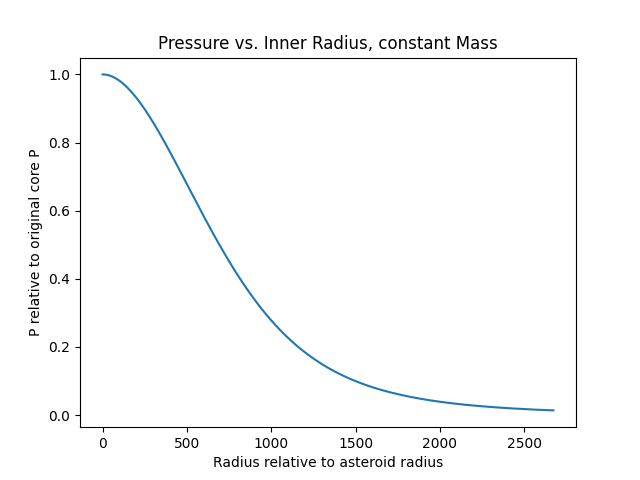
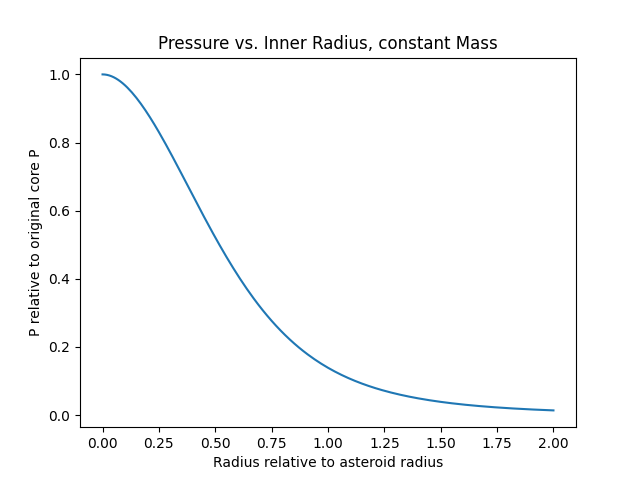
Finish initial two plots

diff --git a/use.py b/use.py
@@ -25,20 +25,26 @@ N_points = 200
 
 R0 = (M * 3. / (4. * pi))**(1./3.)
 
-R_values = [(2. / N_points) * i * R0 for i in range(N_points + 1)]
+relative_values = [(2. / N_points) * i for i in range(N_points + 1)]
 
+R_values = [rel * R0 for rel in relative_values]
 P_values = [new_inflation.P_RM(R, M) / new_inflation.P_RM(0., M) for R in R_values]
 
-plt.plot(R_values, P_values)
+plt.plot(relative_values, P_values)
 plt.title('Pressure vs. Inner Radius, constant Mass')
 plt.ylabel('P relative to original core P')
 plt.xlabel('Radius relative to asteroid radius')
 plt.savefig('P_vs_r.png')
+plt.clf()
 
-V_values = [(4./3.)*pi*R**3 for R in R_values]
+V0 = (4./3.)*pi*R0**3
 
-plt.plot(V_values, P_values)
+V_values = [rel * V0 for rel in relative_values]
+PV_values = [new_inflation.P_VM(V, M) / new_inflation.P_VM(0., M) for V in V_values]
+
+plt.plot(relative_values, PV_values)
 plt.title('Volume vs. Inner Radius, constant Mass')
 plt.ylabel('P relative to original core P')
 plt.xlabel('Volume relative to asteroid rock volume')
 plt.savefig('P_vs_V.png')
+plt.clf()

diff --git a/gb/constants.py b/gb/constants.py
@@ -1,5 +1,3 @@
-import math
-
 # Constants that don't depend on the scenario
 rho = 1.3
 g = 9.8
@@ -17,7 +15,6 @@ Cd_streamlined = 0.04
 # Methanol	5.60E-04	801
 
 Gval = 6.67384e-11
-pi = math.pi
 AU = 149597871000.
 Skylab = 34400.
 atm = 101325.
@@ -33,3 +30,8 @@ Stefan_const = 5.6704e-08
 # 4/3*Pi*50^3
 #
 # 523598
+
+# # Reference Values
+# r1 = 250
+# r2 = 350
+# delta = 100

diff --git a/gb/inflation.py b/gb/inflation.py
@@ -65,3 +65,8 @@ def Pt_RM(R, M, rho=constants.rho):
 
 def P_RM(R, M, rho=constants.rho):
     return Pt_RM(R, M, rho)[0]
+
+
+def P_VM(V, M, rho=constants.rho):
+    R = (V * 3. / (4. * pi))**(1./3.)
+    return Pt_RM(R, M, rho)[0]
